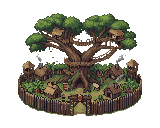
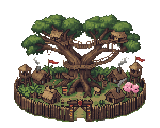
Ville de la Forêt plus claire, traits plus fins
Regénérée avec la ville du Château comme style (traits fins et clairs,
couleurs chaudes) : elle paraissait bien plus cernée de noir que le
Château, vue sur l'herbe (remarque de l'utilisateur). La ville barbare
reste telle quelle (choix de l'utilisateur). HISTORIQUE et METHODE.

diff --git a/HISTORIQUE.md b/HISTORIQUE.md
@@ -870,6 +870,12 @@ Après l'IA (choix de l'utilisateur), qui devra ensuite apprendre la magie et le
   chêne aux maisons et ponts de corde dans ses branches, au milieu d'une palissade ronde, la porte en bas au milieu.
   Contour adouci (`adoucir.py` 0,7, 60, 2 passes) ; pieds proposés (trois, à vérifier). Le cercle et la citadelle
   remplissaient tout le rectangle (arbres coupés aux bords) : une scène, pas un objet détouré.
+  Revue (2026-11-10) : vues côte à côte sur l'herbe, la ville barbare et l'arbre paraissaient bien plus cernés de noir
+  que le Château. Adoucir les traits après coup (moyenne des voisins : « mousseux », moins de contraste ; amincir les
+  traits épais : trop discret) ne suffit pas : le poids vient aussi des couleurs sombres du dessin. Regénérés avec le
+  Château comme style (« thin light outlines, no thick black outlines, bright warm soft colours ») et la ville actuelle
+  comme modèle (0,23 $) : l'utilisateur garde la ville barbare actuelle et prend la nouvelle Forêt (candidat 1, plus
+  claire, traits plus fins).
 - ✅ Créatures de la Forêt (2026-11-09, branche `creatures-foret`, PixelLab, environ 6 $ avec les essais), une à la fois,
   choisies en combat (`essai-<k>.png` posés dans le jeu avec `--creature-preview`) et sur la page d'aperçu des
   animations (à la taille du jeu, un adversaire devant les attaques) :

diff --git a/tools/art/METHODE.md b/tools/art/METHODE.md
@@ -218,6 +218,11 @@ les clés et le dossier `art-candidats/` sont décrits dans `CLAUDE.md` ; l'hist
 - **Ville de la Forêt (2026-11-09)** : une ville faite d'arbres tend à remplir tout le rectangle (une scène, arbres
   coupés aux bords) ; une idée centrée sur un seul grand arbre dans une palissade ronde reste un objet détouré. Montrer
   plusieurs idées d'un coup (un lot de quatre chacune, 0,115 $) pour que l'utilisateur compare.
+- **Contour trop marqué d'une image déjà faite (2026-11-10)** : les retouches ne suffisent pas (moyenne des voisins :
+  image « mousseuse » ; amincir les traits épais : trop discret), car le poids vient aussi des couleurs sombres. Regénérer
+  avec la ville du Château comme style et l'image actuelle comme modèle : « drawn in the same style as the reference
+  castle: thin light outlines, no thick black outlines, bright warm soft colours ». Comparer les villes côte à côte sur
+  l'herbe de la carte, à la taille du jeu.
 - **Ville barbare (2026-11-09)** : une image trop détaillée (« croustillante ») s'adoucit en ajoutant « simple clean
   shapes, smooth soft shading, few small details, not noisy, not grainy » et en prenant `objects/town.png` comme style ;
   le contour noir épais des villes de PixelLab s'adoucit avec `adoucir.py` (0,7, 60, 2 passes : le bord prend une teinte
